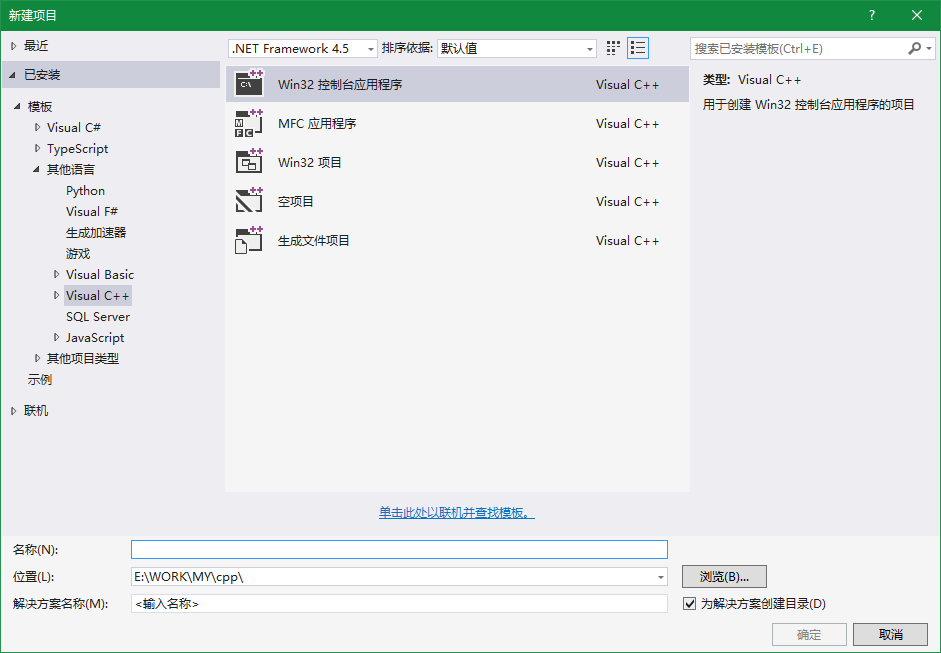
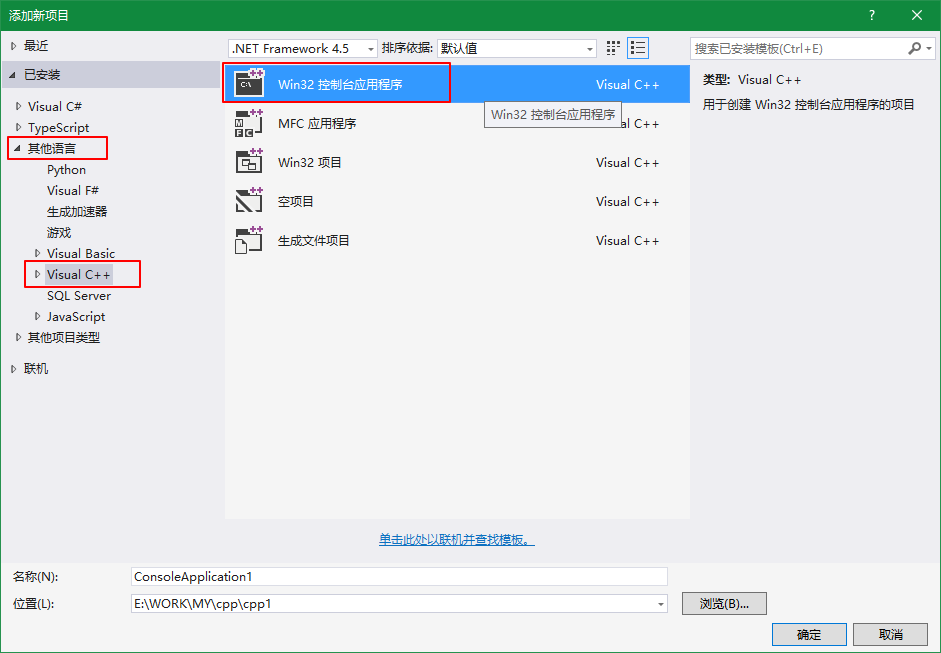
cpp hello world维护

diff --git a/BASE/Hello.md b/BASE/Hello.md
@@ -1,7 +1,7 @@
 <!-- TOC -->
 
 - [HelloWorld](#helloworld)
-    - [新建项目](#新建项目)
+    - [新建项目和C++文件](#新建项目和c文件)
     - [入口函数](#入口函数)
 
 <!-- /TOC -->
@@ -9,20 +9,28 @@
 <a id="markdown-helloworld" name="helloworld"></a>
 # HelloWorld
 环境：WIN10 IDE-VS2015
-<a id="markdown-新建项目" name="新建项目"></a>
-## 新建项目
+<a id="markdown-新建项目和c文件" name="新建项目和c文件"></a>
+## 新建项目和C++文件
 文件-新建项目，选择Visual C++模板，win32控制台程序，如下图所示：
 
 ![](../assets/BASE/Hello_New.png)
 
+选择空项目：
+
+![](../assets/BASE/Hello_New_1.png)
+
+新建项：
+
+![](../assets/BASE/Hello_New_2.png)
+
+添加一个C++文件，作为控制台程序入口文件：
+
+![](../assets/BASE/Hello_New_3.png)
+
 <a id="markdown-入口函数" name="入口函数"></a>
 ## 入口函数
-int main() 是入口函数，添加如下代码：
+方法main() 是入口函数，添加如下代码：
 ```cpp
-// HelloWorld.cpp : 定义控制台应用程序的入口点。
-//
-
-#include "stdafx.h"
 #include "iostream"
 #include "stdlib.h"
 using namespace std;
@@ -39,3 +47,5 @@ int main()
 F5执行该程序，呈现如下效果：
 
 ![](../assets/BASE/Hello_Res.png)
+
+
